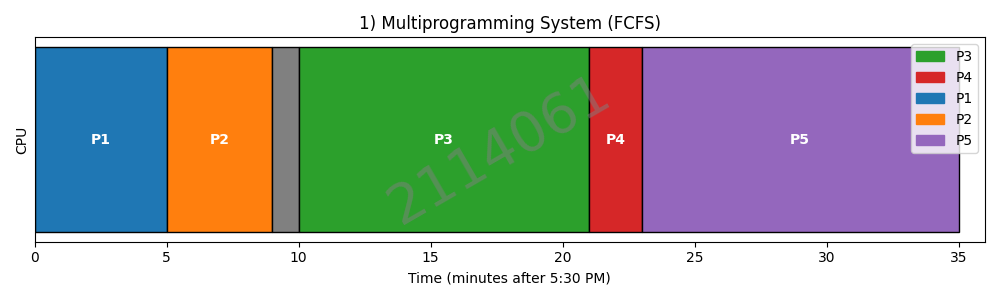
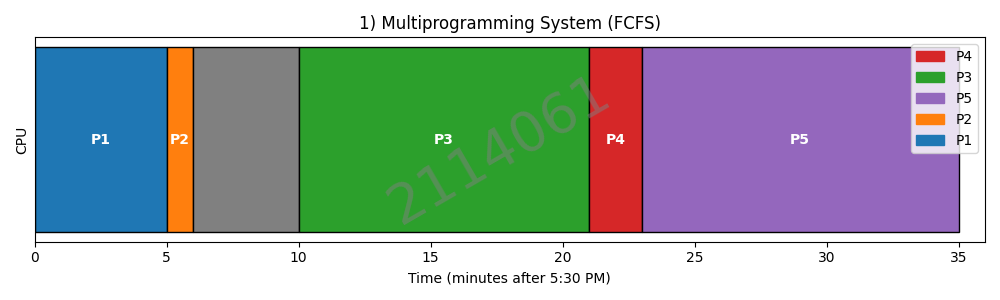
Add files via upload

diff --git a/question6.py b/question6.py
@@ -4,7 +4,7 @@ import matplotlib.patches as mpatches
 # Define the processes with arrival and burst times.
 processes = [
     {"id": "P1", "arrival": 0,  "burst": 5,  "remaining": 5},
-    {"id": "P2", "arrival": 3,  "burst": 4,  "remaining": 4},
+    {"id": "P2", "arrival": 3,  "burst": 1,  "remaining": 1},
     {"id": "P3", "arrival": 10, "burst": 11, "remaining": 11},
     {"id": "P4", "arrival": 12, "burst": 5,  "remaining": 5},
     {"id": "P5", "arrival": 15, "burst": 12, "remaining": 12}
@@ -92,7 +92,7 @@ while len(finished) < len(processes):
             proc_state["idle"] = False
         # For processors that are idle and remain idle, if they had been idle in the previous time step, 
         # we update nothing here. We'll record idle events when a process is assigned.
-        if proc_state["proc"] is None and proc_state.get("idle") and (global_time > proc_state["event_start"]):
+        if proc_state["proc"] is None and proc_state.get("idle") and proc_state["event_start"] is not None and (global_time > proc_state["event_start"]):
             # We record idle events for each time unit while idle.
             schedule_events.append(("Idle", proc_state["event_start"], global_time + 1, f"Processor {i+1}"))
             proc_state["event_start"] = global_time + 1

diff --git a/question1.py b/question1.py
@@ -131,7 +131,7 @@ if __name__ == "__main__":
     # Convert the given arrival times to minutes after 5:30 PM
     processes = [
         {"id": "P1", "arrival": 0,  "burst": 5},
-        {"id": "P2", "arrival": 3,  "burst": 4},
+        {"id": "P2", "arrival": 3,  "burst": 1},
         {"id": "P3", "arrival": 10, "burst": 11},
         {"id": "P4", "arrival": 12, "burst": 2},
         {"id": "P5", "arrival": 15, "burst": 12}
